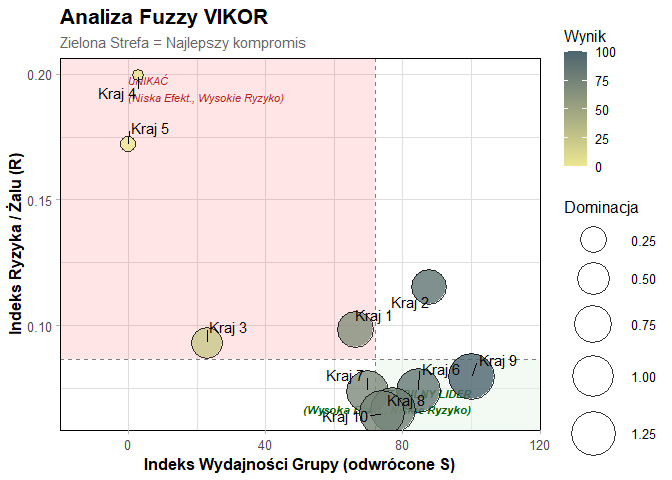
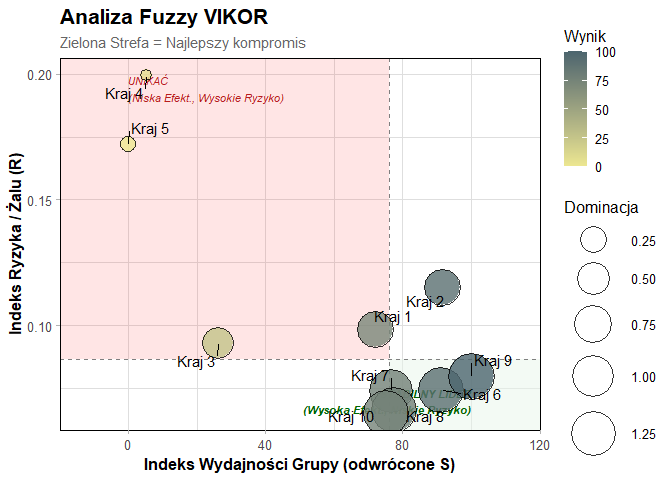
changing criteria

Changed region(s): [[0.4688, 0.125, 0.7812, 0.9062], [0.25, 0.6562, 0.375, 0.7812], [0.125, 0.125, 0.2188, 0.2188]]

diff --git a/README.md b/README.md
@@ -41,14 +41,14 @@ data("mcda_dane_surowe")
 # 2. Przygotuj macierz rozmytą 
 # Definiujemy, które kolumny tworzą kryteria 
 skladnia <- "Oferty =~ oferty_IT;
-             Czas =~ dojazd_godz;
+             Wynagrodzenie_EUR =~ wynagrodzenie;
              Koszt =~ koszt_mieszkania;
              Odległosc =~ odleglosc_km;
              Dogodnosci =~ dostep_jedzenie_uslugi;
              Strefa_czasowa =~ roznica_czasu;
              Dostepnosc =~ zatrudnienie_obcy;
              Transport =~ komunikacja_lokalna;
-             Jezyk =~ nauka_jezyka;
+             Rozwoj_zaw =~ rozwoj;
              Kultura =~ przyjaznosc_kultury"
 
 macierz_rozmyta <- przygotuj_dane_mcda(mcda_dane_surowe, skladnia, kolumna_alternatyw = "Alternatywa") 
@@ -56,7 +56,7 @@ macierz_rozmyta <- przygotuj_dane_mcda(mcda_dane_surowe, skladnia, kolumna_alter
 # 3. Oblicz ranking metodą Fuzzy VIKOR
 res_vikor <- fuzzy_vikor(macierz_decyzyjna = macierz_rozmyta,
                      typy_kryteriow= c("min", "max", "min", "min", "max", "min", "min", "min", "min", "min"),
-                     bwm_kryteria = c("Oferty", "Czas", "Koszt","Odleglosc", "Dogodnosci", "Strefa_czasowa", "Dostepnosc", "Transport", "Jezyk", "Kultura"), 
+                     bwm_kryteria = c("Oferty", "Wynagrodzenie_EUR", "Koszt","Odleglosc", "Dogodnosci", "Strefa_czasowa", "Dostepnosc", "Transport", "Rozwoj_zaw", "Kultura"), 
                      bwm_najlepsze = c(1,7,4,5,6,8,2,3,6,5),
                      bwm_najgorsze = c(8,2,3,3,2,1,6,4,2,3)
 )
@@ -65,16 +65,16 @@ res_vikor <- fuzzy_vikor(macierz_decyzyjna = macierz_rozmyta,
 # 4. Wyświetl wynik 
 print(res_vikor$wyniki) 
 #>    Alternatywa         S          R         Q ranking
-#> 1            1 0.2657205 0.09855034 0.3855698       6
-#> 2            2 0.2194784 0.11519149 0.3893203       7
-#> 3            3 0.3585538 0.09300367 0.4249667       8
-#> 4            4 0.4010886 0.19936634 0.6264429      10
-#> 5            5 0.4075190 0.17205589 0.5838204       9
-#> 6            6 0.2264975 0.07417146 0.3239161       4
-#> 7            7 0.2581199 0.07381699 0.3399214       5
-#> 8            8 0.2423257 0.06632465 0.3190100       2
-#> 9            9 0.1933356 0.07962489 0.3156907       1
-#> 10          10 0.2488578 0.06480586 0.3198814       3
+#> 1            1 0.2595503 0.09855034 0.3782586       6
+#> 2            2 0.2170054 0.11519149 0.3838741       7
+#> 3            3 0.3603902 0.09300367 0.4220394       8
+#> 4            4 0.4065487 0.19936634 0.6255006      10
+#> 5            5 0.4176557 0.17205589 0.5853534       9
+#> 6            6 0.2174870 0.07417146 0.3150386       2
+#> 7            7 0.2492808 0.07381699 0.3311907       5
+#> 8            8 0.2473941 0.06632465 0.3175775       3
+#> 9            9 0.1983795 0.07962489 0.3141578       1
+#> 10          10 0.2530202 0.06480586 0.3179833       4
 
 # 5. Wyświetl mapę decyzyjną 
 plot(res_vikor) 
